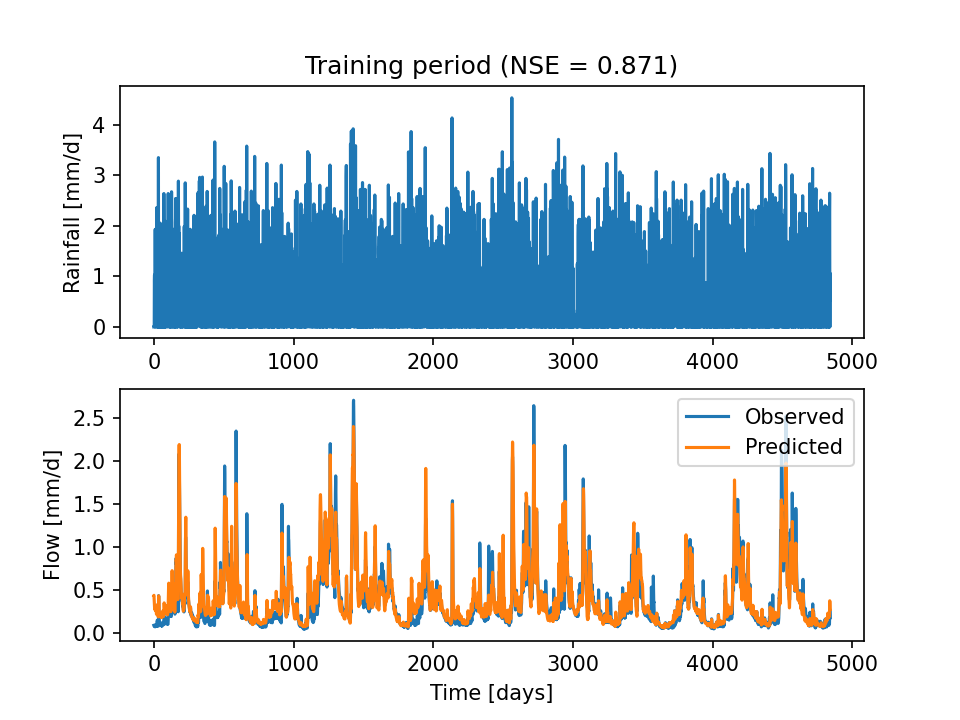
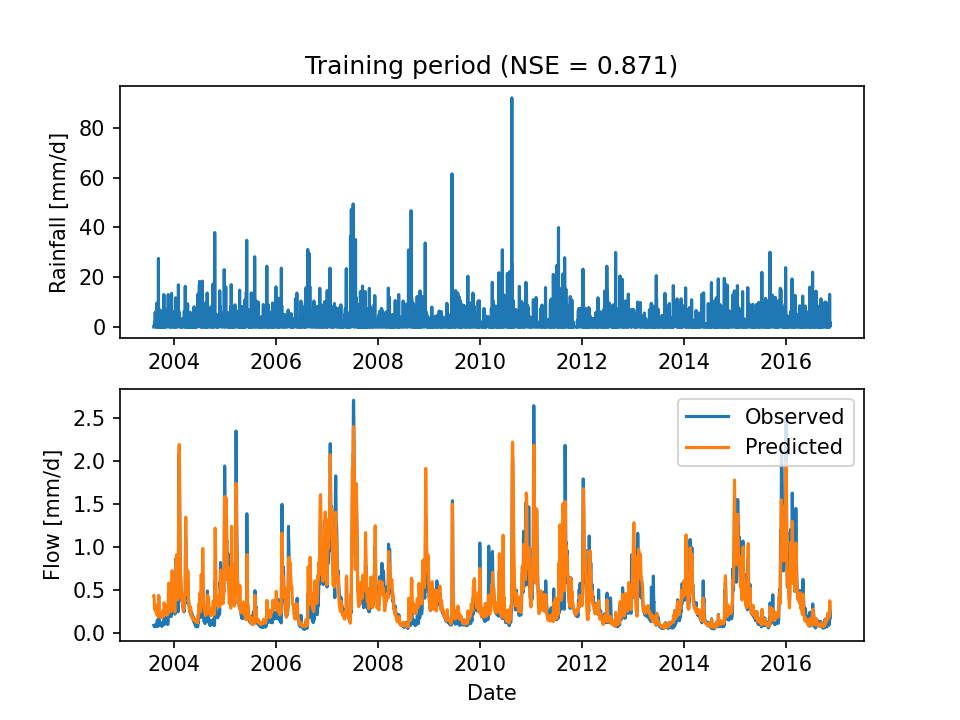
more updates to C scripts in single catchment models - just figure edits

diff --git a/Single-Catchment/LSTM_Havelse_9features/C_ModelEvaluation.py b/Single-Catchment/LSTM_Havelse_9features/C_ModelEvaluation.py
@@ -9,6 +9,7 @@ import matplotlib.pyplot as plt
 from statsmodels.graphics.tsaplots import plot_acf 
 import datetime as dt 
 import os 
+import pandas as pd 
 
 #Create folder where all figures are saved 
 figures_dir = os.path.join(os.path.dirname(os.path.abspath(__file__)), 'figures')
@@ -50,17 +51,14 @@ pred_test = pred_all[:, n_train+n_val:]
 
 #Unscale output
 #training
-rainseries_train = unscale_series(inputs_train[0,:,0],inputscales).numpy()
 flowpred_train = unscale_series(pred_train[0,:],labelscales).numpy()
 flowobs_train = unscale_series(labels_train[0,:],labelscales).numpy()
 
 #Validation 
-rainseries_val = unscale_series(inputs_val[0,:,0],inputscales).numpy()
 flowpred_val = unscale_series(pred_val[0,:],labelscales).numpy()
 flowobs_val = unscale_series(labels_val[0,:],labelscales).numpy()
 
 #Test 
-rainseries_test = unscale_series(inputs_test[0,:,0],inputscales).numpy()
 flowpred_test = unscale_series(pred_test[0,:],labelscales).numpy()
 flowobs_test = unscale_series(labels_test[0,:],labelscales).numpy()
 
@@ -75,15 +73,27 @@ np.save('observations_test.npy', flowobs_test)
 nse_train = nse(flowobs_train, flowpred_train)
 print(f'Training NSE: {nse_train:3f}')
 
+#want to plot raw precip for each period to show with predictions 
+raw_data = pd.read_csv('Data/LSTM_dataframe.csv', index_col=0, parse_dates=True)
+precip_daily = raw_data['precipitation'].values
+precip_train = precip_daily[:n_train]
+precip_val   = precip_daily[n_train:n_train+n_val]
+precip_test  = precip_daily[n_train+n_val:]
+
+#Add date slices to include in figures (showing no. days currently)
+dates_train = raw_data.index[:n_train]
+dates_val   = raw_data.index[n_train:n_train+n_val]
+dates_test  = raw_data.index[n_train+n_val:]
+
 #PLot training predictions
 fig,ax = plt.subplots(nrows=2)
-ax[0].plot(rainseries_train)
+ax[0].plot(dates_train, precip_train)
 ax[0].set_ylabel('Rainfall [mm/d]')
 ax[0].set_title(f'Training period (NSE = {nse_train:.3f})')
-ax[1].plot(flowobs_train, label='Observed')
-ax[1].plot(flowpred_train, label='Predicted')
+ax[1].plot(dates_train, flowobs_train, label='Observed')
+ax[1].plot(dates_train, flowpred_train, label='Predicted')
 ax[1].set_ylabel('Flow [mm/d]')
-ax[1].set_xlabel('Time [days]')
+ax[1].set_xlabel('Date')
 ax[1].legend()
 fig.savefig(os.path.join(figures_dir, 'lstm_training_predictions.png'), dpi=150)
 
@@ -93,13 +103,13 @@ print(f'Validation NSE: {nse_val:3f}')
 
 #PLot Validation predictions 
 fig,ax = plt.subplots(nrows=2)
-ax[0].plot(rainseries_val)
+ax[0].plot(dates_val, precip_val)
 ax[0].set_ylabel('Rainfall [mm/d]')
 ax[0].set_title(f'Validation period (NSE = {nse_val:.3f})')
-ax[1].plot(flowobs_val, label='Observed')
-ax[1].plot(flowpred_val, label='Predicted')
+ax[1].plot(dates_val, flowobs_val, label='Observed')
+ax[1].plot(dates_val, flowpred_val, label='Predicted')
 ax[1].set_ylabel('Flow [mm/d]')
-ax[1].set_xlabel('Time [days]')
+ax[1].set_xlabel('Date')
 ax[1].legend()
 fig.savefig(os.path.join(figures_dir, 'lstm_validation_predictions.png'), dpi=150)
 
@@ -109,13 +119,13 @@ print(f'Test NSE: {nse_test:.3f}')
 
 #Plot Test Predictions 
 fig,ax = plt.subplots(nrows=2)
-ax[0].plot(rainseries_test)
+ax[0].plot(dates_test, precip_test)
 ax[0].set_ylabel('Rainfall [mm/d]')
 ax[0].set_title(f'Test period (NSE = {nse_test:.3f})')
-ax[1].plot(flowobs_test, label='Observed')
-ax[1].plot(flowpred_test, label='Predicted')
+ax[1].plot(dates_test, flowobs_test, label='Observed')
+ax[1].plot(dates_test, flowpred_test, label='Predicted')
 ax[1].set_ylabel('Flow [mm/d]')
-ax[1].set_xlabel('Time [days]')
+ax[1].set_xlabel('Date')
 ax[1].legend()
 fig.savefig(os.path.join(figures_dir, 'lstm_test_predictions.png'), dpi=150)
 
@@ -132,10 +142,10 @@ fig.savefig(os.path.join(figures_dir, 'Histogram_residuals.png'), dpi=150)
 
 #Plot residuals over time to check for white noise
 fig, ax = plt.subplots()
-ax.plot(residuals, color = 'steelblue', linewidth = 0.5)
+ax.plot(dates_val, residuals, color = 'steelblue', linewidth = 0.5)
 ax.axhline(0, color = 'red', linestyle = '--', linewidth =1)
 ax.set_xlabel('Time [days]')
-ax.set_ylabel('Residual [mm/d]')
+ax.set_ylabel('Date')
 ax.set_title('Residuals over time')
 fig.savefig(os.path.join(figures_dir, 'Residuals_timeseries.png'), dpi=150)
 
@@ -156,6 +166,54 @@ colors = ['#1f77b4', '#ff7f0e', '#2ca02c', '#d62728','#9467bd', '#8c564b', '#e37
 for patch, color in zip(bp['boxes'], colors):
     patch.set_facecolor(color)
 fig.savefig(os.path.join(figures_dir, 'boxandwhisker.png'), dpi=150)
+
+#Plot residuals vs each input feature
+#A correlation between residuals and an input means the model isn't fully extracting that input's signal. 
+#Computed on the validation period
+fig, axes = plt.subplots(nrows=2, ncols=4, figsize=(16, 7))
+axes = axes.flatten()
+for i, fname in enumerate(var_names):
+    feature_val = unscale_series(inputs_val[0,:,i], inputscales).numpy()
+    r = np.corrcoef(feature_val, residuals)[0, 1]
+    axes[i].scatter(feature_val, residuals, alpha=0.3, s=8)
+    axes[i].axhline(0, color='red', linestyle='--', linewidth=1)
+    axes[i].set_xlabel(fname)
+    axes[i].set_ylabel('Residual [mm/d]')
+    axes[i].set_title(f'{fname}  (r = {r:.3f})')
+axes[7].axis('off')   # only 7 features, hide the 8th panel
+fig.suptitle('Validation residuals vs input features', y=1.02)
+fig.tight_layout()
+fig.savefig(os.path.join(figures_dir, 'residuals_vs_inputs.png'), dpi=150)
+
+#Combined plot: train, val, test predictions stacked vertically
+fig, axes = plt.subplots(nrows=3, ncols=1, figsize=(12, 9))
+
+axes[0].plot(dates_train, flowobs_train, label='Observed', linewidth=0.8)
+axes[0].plot(dates_train, flowpred_train, label='Predicted', linewidth=0.8)
+axes[0].set_ylabel('Flow [mm/d]')
+axes[0].set_title(f'Training (NSE = {nse_train:.3f})')
+axes[0].legend(loc='upper right')
+axes[0].grid(alpha=0.3)
+
+axes[1].plot(dates_val, flowobs_val, label='Observed', linewidth=0.8)
+axes[1].plot(dates_val, flowpred_val, label='Predicted', linewidth=0.8)
+axes[1].set_ylabel('Flow [mm/d]')
+axes[1].set_title(f'Validation (NSE = {nse_val:.3f})')
+axes[1].legend(loc='upper right')
+axes[1].grid(alpha=0.3)
+
+axes[2].plot(dates_test, flowobs_test, label='Observed', linewidth=0.8)
+axes[2].plot(dates_test, flowpred_test, label='Predicted', linewidth=0.8)
+axes[2].set_ylabel('Flow [mm/d]')
+axes[2].set_xlabel('Date')
+axes[2].set_title(f'Test (NSE = {nse_test:.3f})')
+axes[2].legend(loc='upper right')
+axes[2].grid(alpha=0.3)
+
+fig.suptitle('LSTM 9-feature - Predictions across all periods', y=1.00)
+fig.tight_layout()
+fig.savefig(os.path.join(figures_dir, 'lstm_all_periods_predictions.png'), dpi=150)
+
 
 plt.show()
 

diff --git a/Multi-Catchment/MultiCatchment_Model_Notes.md b/Multi-Catchment/MultiCatchment_Model_Notes.md
@@ -320,6 +320,65 @@ LOCO test NSEs range from -2.55 to +0.47 with no clean attribute-space explanati
 
 A "dominant land-use" binary categorical was considered and rejected: all 6 catchments are rural-dominated (rural% is the largest category in every catchment), so a categorical of the dominant class would produce identical values for every catchment.
 
+## Cross-Technique Comparison (Part 4, Steps 19–20)
+
+This section steps back from the multi-catchment model alone and compares all three modelling techniques developed across the course on the Group2 (Havelse) test period (2022-01-01 to 2023-12-31). Full comparison code is in `Model_Comparisons/ModelComparison.py`.
+
+### Performance comparison
+
+| Model | Linear NSE |
+|---|---|
+| HBV (medium bucket model, Part 2) | **0.882** |
+| LSTM multi-catchment (Run 7, this folder) | 0.837 |
+| LSTM single-catchment (Part 3) | 0.808 |
+| HIP (National Water Resources Model) | 0.498 |
+| LSTM LOCO (logspace, held-out) | -1.06 |
+
+**The headline result: HBV (the simplest of the three techniques) outperforms both LSTMs on this catchment.** That contradicts the typical "more sophisticated = better" assumption and is worth foregrounding rather than burying.
+
+Plausible reasons HBV wins here:
+- HBV is calibrated specifically for Havelse (per-catchment), like the single-LSTM, but with strong physical inductive bias.
+- ~20 years of data is plenty for HBV's ~12 parameters but probably not enough for an LSTM to clearly beat a well-tuned mechanistic model. Published multi-catchment LSTMs (Kratzert et al. 2019, ~530 CAMELS catchments) outperform HBV-style models, but they need an order of magnitude more data than we have.
+- HBV operates at 12-h resolution; the LSTMs at daily — slight edge on rising-limb dynamics.
+
+**HIP underperforms** because it's calibrated as a national model with regional parameters — not Havelse-specific tuning. Same general explanation as the LOCO case on the LSTM side: any model not tuned to a specific catchment underperforms one that is.
+
+### Why the multi-LSTM beats the single-LSTM
+
+The multi-catchment model edges out the single-catchment model on Havelse (0.837 vs 0.808). Small effect, but the direction is interesting: pooling data across 6 catchments seems to have *regularized* the model and prevented some overfitting to Havelse-specific quirks. So multi-catchment training has merit even when Havelse is the target catchment.
+
+### Residual highlights across models
+
+- **Single-LSTM**: residuals largely well-behaved; the only meaningful structure is mild groundwater dependence (r = 0.19 — see C script residuals-vs-inputs figure).
+- **Multi-LSTM**: similar shape to single-LSTM, slightly worse on extremes.
+- **LOCO (logspace)**: log-space training fixed the residual *shape* (approximately normal) but not the *bias* (~4.5× over-prediction in linear space, log-residual mean ≈ -1.5). The bias is structural — the model has never seen Group 2's catchment-specific behavior — not transformable away by a label transformation.
+
+### Step 20: benefit / limitation per technique
+
+**Bucket model (HBV)**
+- ✅ **Benefit:** physically interpretable parameters and states (snow storage, soil moisture, fast/slow reservoirs). When something looks wrong, you can plot internal states and reason about what's broken. Strong inductive bias when data is limited.
+- ❌ **Limitation:** rigid structure. Adding non-standard inputs (groundwater observations, snowpack, anthropogenic withdrawals) requires re-engineering the model rather than appending a feature column.
+
+**Single-catchment ML (LSTM)**
+- ✅ **Benefit:** flexible feature ingestion — anything time-series can become an input without architectural redesign. Captures non-linear interactions the bucket can't represent.
+- ❌ **Limitation:** less directly interpretable than HBV. Shapley analysis (D script) partially probes the model, but it's not as transparent as inspecting reservoir states. Needs substantial catchment-specific data and doesn't transfer to other catchments.
+
+**Multi-catchment ML (LSTM with static features)**
+- ✅ **Benefit:** pools data across catchments and *can* generalize to ungauged catchments via static features — that's the entire selling point.
+- ❌ **Limitation:** with N=6 catchments, the static-feature embedding has insufficient data to encode meaningful generalization (see LOCO section above). Per-catchment performance on trained catchments is only a small compromise; performance on truly unseen catchments degrades severely (LOCO Group 2: ~4.5× bias).
+
+### Framing for the writeup
+
+The five NSE values — HBV (0.882) > multi-LSTM (0.837) > single-LSTM (0.808) > HIP (0.498) > LOCO (-1.06) — map onto a clean axis: **how much catchment-specific calibration the model has access to**. HBV has the most; LOCO has the least; the others sit between. That framing connects the empirical results to the structural limitation each technique has, which is what step 20 is asking for.
+
+A note on dominance: equal performance between HBV and the LSTMs would still favor HBV here, because HBV is more interpretable. The opaque model only earns its keep when it delivers clearly better predictions. On Havelse with ~20 years of data, it doesn't.
+
+### Caveats worth noting in the oral exam
+
+- **HBV is conceptually physical, not actually physical.** The structure mirrors hydrology, but the parameters are still data-fit. The advantage is the inductive bias of the structure, not that the parameters were physically measured.
+- **The "more data → LSTM wins" hypothesis** is supported by published work (Kratzert et al. 2019, multi-basin LSTM on the CAMELS dataset), not just speculation.
+- **Six catchments is an order of magnitude too few** to make LOCO competitive with locally-calibrated models. Once you scale to ~100+ catchments, LOCO performance becomes respectable. The N=6 constraint is the binding factor here, not the architecture.
+
 ## Script Structure
 
 | Script | Purpose |
